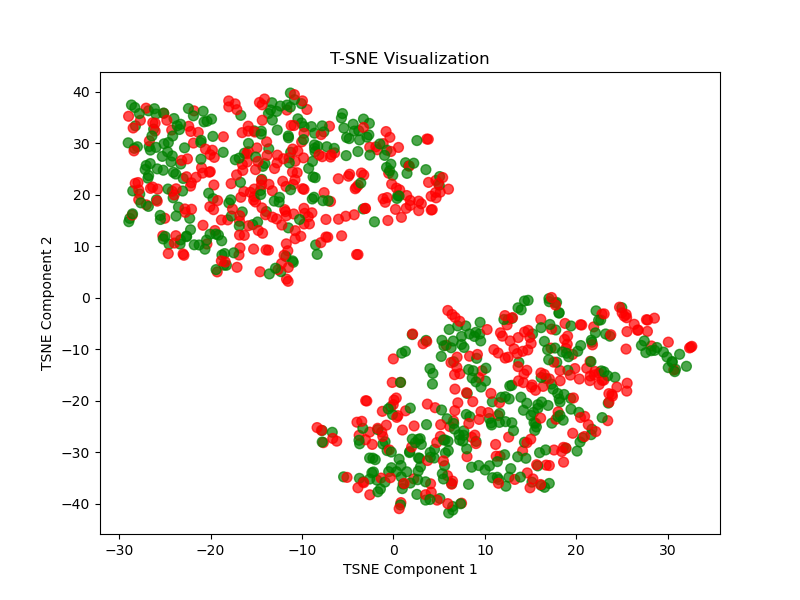
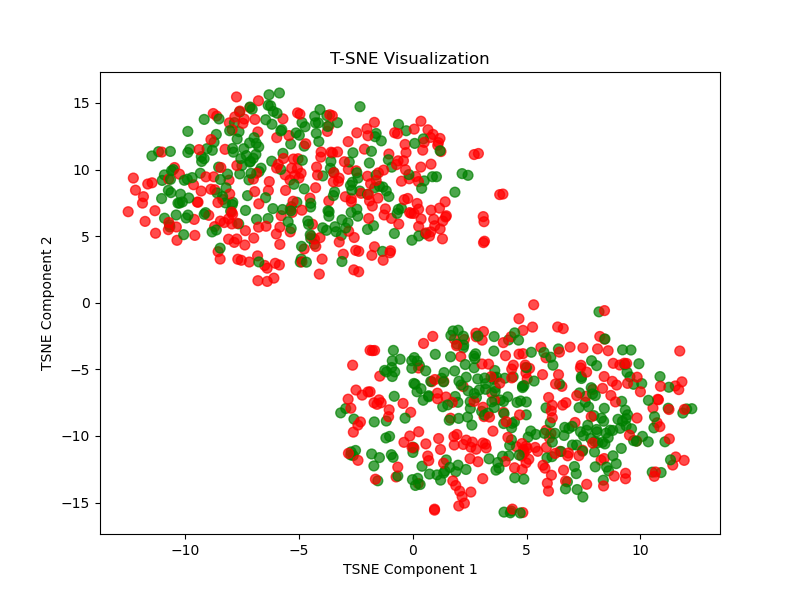
Increased perplexity of T-SNE

diff --git a/RobotSimulator_v1/NN_Classifier.py b/RobotSimulator_v1/NN_Classifier.py
@@ -117,9 +117,9 @@ def plot_learning_curve_fn(train_sizes, train_scores, test_scores, save_path):
     plt.savefig(save_path)
     plt.close()
 
-def plot_tsne(X, y, save_path, n_components=2):
+def plot_tsne(X, y, save_path, n_components=2, perplexity=1000):
     """Apply T-SNE and plot the results."""
-    tsne = TSNE(n_components=n_components, random_state=42)
+    tsne = TSNE(n_components=n_components, random_state=42, perplexity=perplexity)
     X_tsne = tsne.fit_transform(X)
 
     plt.figure(figsize=(8, 6))
@@ -222,11 +222,11 @@ def main():
 
     # Apply T-SNE and plot the results
     tsne_path_2d = os.path.join(output_dir, 'tsne_2d.png')
-    plot_tsne(X, y, tsne_path_2d, n_components=2)
+    plot_tsne(X, y, tsne_path_2d, n_components=2, perplexity=100)
     print(f"T-SNE 2D plot saved to '{tsne_path_2d}'.")
 
     tsne_path_3d = os.path.join(output_dir, 'tsne_3d.png')
-    plot_tsne(X, y, tsne_path_3d, n_components=3)
+    plot_tsne(X, y, tsne_path_3d, n_components=3, perplexity=100)
     print(f"T-SNE 3D plot saved to '{tsne_path_3d}'.")
 
 if __name__ == "__main__":

diff --git a/RobotSimulator_v1/2x_NN_Classifier.py b/RobotSimulator_v1/2x_NN_Classifier.py
@@ -117,9 +117,9 @@ def plot_learning_curve_fn(train_sizes, train_scores, test_scores, save_path):
     plt.savefig(save_path)
     plt.close()
 
-def plot_tsne(X, y, save_path, n_components=2):
+def plot_tsne(X, y, save_path, n_components=2, perplexity=30):
     """Apply T-SNE and plot the results."""
-    tsne = TSNE(n_components=n_components, random_state=42)
+    tsne = TSNE(n_components=n_components, random_state=42, perplexity=perplexity)
     X_tsne = tsne.fit_transform(X)
 
     plt.figure(figsize=(8, 6))
@@ -222,11 +222,11 @@ def main():
 
     # Apply T-SNE and plot the results
     tsne_path_2d = os.path.join(output_dir, 'tsne_2d.png')
-    plot_tsne(X, y, tsne_path_2d, n_components=2)
+    plot_tsne(X, y, tsne_path_2d, n_components=2, perplexity=100)
     print(f"T-SNE 2D plot saved to '{tsne_path_2d}'.")
 
     tsne_path_3d = os.path.join(output_dir, 'tsne_3d.png')
-    plot_tsne(X, y, tsne_path_3d, n_components=3)
+    plot_tsne(X, y, tsne_path_3d, n_components=3, perplexity=100)
     print(f"T-SNE 3D plot saved to '{tsne_path_3d}'.")
 
 if __name__ == "__main__":
